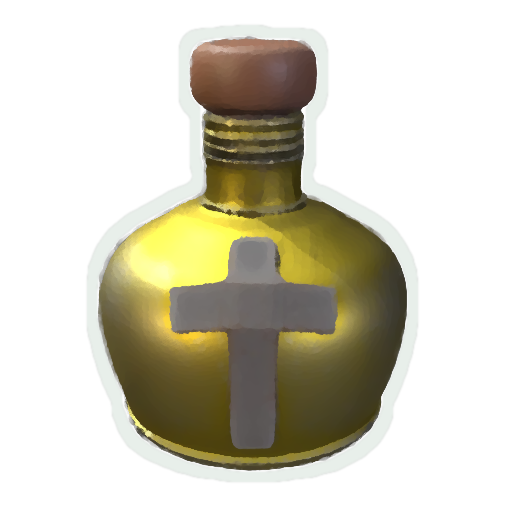
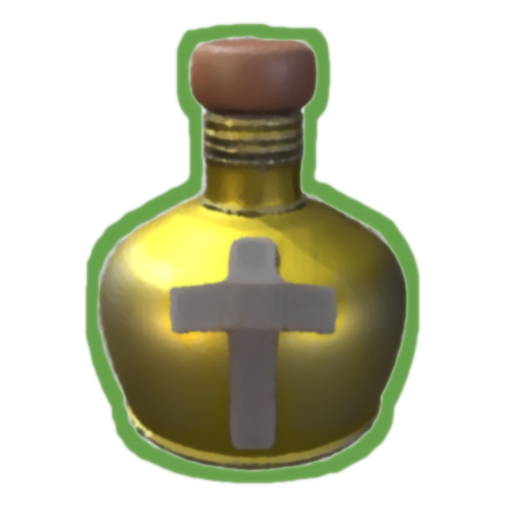
Changed Holy Water rarity to green

diff --git a/TooManyItems/Items/Tier2/HolyWater.cs b/TooManyItems/Items/Tier2/HolyWater.cs
@@ -11,11 +11,11 @@ namespace TooManyItems
     {
         public static ItemDef itemDef;
 
-        // Killing an elite enemy grants 2.5% (+2.5% per stack) of your level experience cap as bonus experience.
+        // Killing an elite enemy grants all allies 2% (+2% per stack) of their level experience cap as bonus experience.
         public static ConfigurableValue<float> experienceMultiplierPerStack = new(
             "Item: Holy Water",
             "XP Multiplier",
-            2.5f,
+            2f,
             "Bonus experience gained on elite kill as a percentage of the level cap.",
             new List<string>()
             {
@@ -47,7 +47,7 @@ namespace TooManyItems
 
             ItemTierCatalog.availability.CallWhenAvailable(() =>
             {
-                if (itemDef) itemDef.tier = ItemTier.Tier1;
+                if (itemDef) itemDef.tier = ItemTier.Tier2;
             });
 
             itemDef.pickupIconSprite = Assets.bundle.LoadAsset<Sprite>("HolyWater.png");
@@ -80,7 +80,7 @@ namespace TooManyItems
                         int count = atkBody.inventory.GetItemCount(itemDef);
                         if (count > 0)
                         {
-                            float hyperbolicExperienceMultiplier = 1 - (1 / (1 + (experienceMultiplierAsPercent * count)));
+                            float hyperbolicExperienceMultiplier = 1 - 1 / (1 + experienceMultiplierAsPercent * count);
                             float bonusXP = GetExperienceCap(atkBody.level) * hyperbolicExperienceMultiplier;
 
                             atkMaster.GiveExperience(Convert.ToUInt64(bonusXP));
@@ -92,16 +92,16 @@ namespace TooManyItems
 
         private static float GetExperienceCap(float level)
         {
-            return (-4f / 0.11f) * (1f - Mathf.Pow(1.55f, level));
+            return -4f / 0.11f * (1f - Mathf.Pow(1.55f, level));
         }
 
         private static void AddTokens()
         {
             LanguageAPI.Add("HOLY_WATER", "Holy Water");
             LanguageAPI.Add("HOLY_WATER_NAME", "Holy Water");
-            LanguageAPI.Add("HOLY_WATER_PICKUP", "Gain bonus experience upon killing elite enemies.");
+            LanguageAPI.Add("HOLY_WATER_PICKUP", "Grant all allies bonus experience upon killing elite enemies.");
 
-            string desc = $"Killing an elite enemy grants <style=cIsUtility>{experienceMultiplierPerStack.Value}%</style> " +
+            string desc = $"Killing an elite enemy grants all allies <style=cIsUtility>{experienceMultiplierPerStack.Value}%</style> " +
                 $"<style=cStack>(+{experienceMultiplierPerStack.Value}% per stack)</style> of your current level experience cap as bonus experience.";
             LanguageAPI.Add("HOLY_WATER_DESCRIPTION", desc);
 
